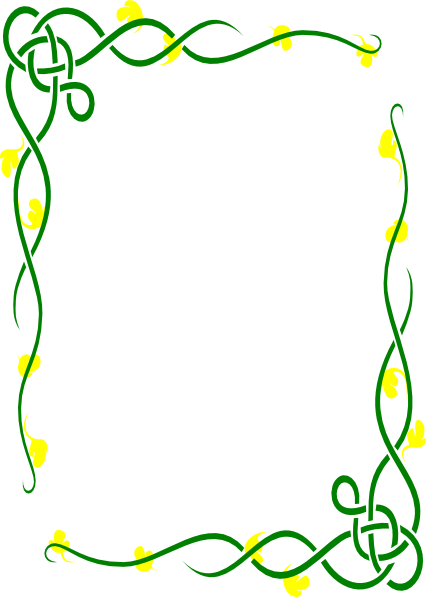
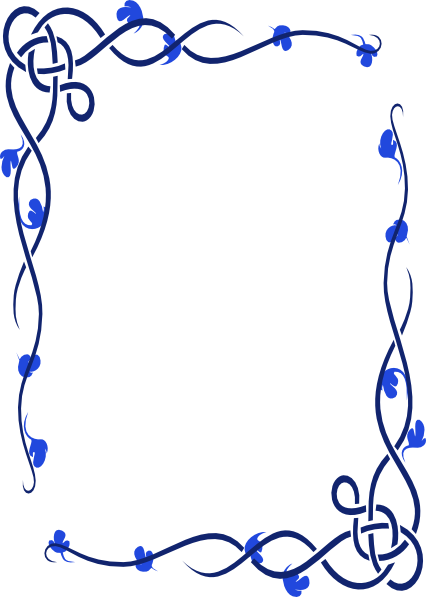
started template conversion

diff --git a/client/src/components/CustomNav/CustomNav.js b/client/src/components/CustomNav/CustomNav.js
@@ -14,7 +14,7 @@ class CustomNav extends Component {
             {/* Set to an image, but could be changed to text. Update alt and src to change picture */}
 
             <Navbar.Brand xs={4} sm={4} >
-              <Link to="/"><Image xs={4} lg={4} className="logo" alt="Green Table Farm Logo" src="http://res.cloudinary.com/aidanclemente/image/upload/c_scale,w_350/v1524004259/Green_Table_Logo.png" /></Link>
+              <Link to="/"><Image xs={4} lg={4} className="logo" alt="Computer Logo" src="assets/images/tech/compLogo.jpg" /></Link>
             </Navbar.Brand>
             <Navbar.Toggle />
           </Navbar.Header>
@@ -25,23 +25,23 @@ class CustomNav extends Component {
           <Navbar.Collapse>
             <Nav pullRight>
 
-              <NavItem className="text-center waves-effect waves-green waves-ripple" eventKey={1} componentClass={Link} href="/" to="/">
+              <NavItem className="text-center waves-effect waves-blue waves-ripple" eventKey={1} componentClass={Link} href="/" to="/">
                 Home
               </NavItem>
 
-              <NavItem className="text-center waves-effect waves-green waves-ripple" eventKey={2} componentClass={Link} href="/about" to="/about">
+              <NavItem className="text-center waves-effect waves-blue waves-ripple" eventKey={2} componentClass={Link} href="/about" to="/about">
                 About
               </NavItem>
             
-              <NavItem className="text-center waves-effect waves-green waves-ripple" eventKey={3} componentClass={Link} href="/cafe" to="/cafe">
-                Café
+              <NavItem className="text-center waves-effect waves-blue waves-ripple" eventKey={3} componentClass={Link} href="/hardware" to="/hardware">
+                Hardware
               </NavItem>
 
-              <NavItem className="text-center waves-effect waves-green waves-ripple" eventKey={4} componentClass={Link} href="/farmfresh" to="/farmfresh">
-                Farm Fresh
+              <NavItem className="text-center waves-effect waves-blue waves-ripple" eventKey={4} componentClass={Link} href="/software" to="/software">
+                Software
               </NavItem>
 
-              <NavItem className="text-center waves-effect waves-green waves-ripple" eventKey={5} componentClass={Link} href="/contact" to="/contact">
+              <NavItem className="text-center waves-effect waves-blue waves-ripple" eventKey={5} componentClass={Link} href="/contact" to="/contact">
                 Contact Us
               </NavItem>
             </Nav>

diff --git a/client/src/components/Home/Home.js b/client/src/components/Home/Home.js
@@ -15,7 +15,7 @@ class Home extends Component {
           {/* Update alt and src, carousel caption (optional) will overlay on top of the pictures */}
 
           {/* First Slide */}
-          <Image className="carouselPicture" alt="Kendra and Tyler" src="assets/images/portrait.jpg" />
+          <Image className="carouselPicture" alt="Image 1" src="assets/images/tech/wallpaper1.jpg" />
           {/* <Carousel.Caption>
             <h3>Welcome</h3>
             <p>Green Table Farm has much to offer, from hosting weddings, catering events, hosting campers, Farmer's Markets, and much more!</p>
@@ -24,7 +24,7 @@ class Home extends Component {
 
         {/* Second Slide */}
         <Carousel.Item>
-          <Image alt="Durango Farmers Market" src="assets/images/FarmersMarket.jpg" />
+          <Image alt="Demo2" src="assets/images/tech/wallpaper2.jpg" />
           {/* <Carousel.Caption>
             <h3>Come Visit at Durango Farmer's Market</h3>
             <p>Lorem ipsum dolor sit amet, consectetur adipiscing elit.</p>
@@ -33,7 +33,7 @@ class Home extends Component {
 
         {/* Third Slide */}
         <Carousel.Item>
-          <Image alt="Green Table Cafe Bus" src="assets/images/cafeBus.jpg" />
+          <Image alt="Demo3" src="assets/images/tech/wallpaper3.jpg" />
           {/* <Carousel.Caption>
             <h3>Green Table Cafe Bus</h3>
             <p>Visit "Cafe" to find out more about Green Table Cafe!</p>

diff --git a/client/src/components/Hardware/Hardware.js b/client/src/components/Hardware/Hardware.js
@@ -1,9 +1,9 @@
 import React, { Component } from 'react';
-import "./Cafe.css";
+import "./Hardware.css";
 import { Grid, Row, Thumbnail, Col, ListGroup } from 'react-bootstrap';
 import API from "../../utils/API";
 
-class Cafe extends Component {
+class Hardware extends Component {
   state = {
     cafes: [],
     photo: "",
@@ -27,8 +27,8 @@ class Cafe extends Component {
     return (
       <Grid className="content">
         <br />
-        <img className="coverPhoto text-center" src="/assets/images/coverPhoto.jpg" alt="Kendra and Fairlight at Cafe" />
-        <h1 className="customTitle text-center">Café Menu</h1>
+        <img className="coverPhoto text-center" src="/assets/images/tech/hardware.jpg" alt="hardware logo" />
+        <h1 className="customTitle text-center">Hardware Selection</h1>
         <Row>
           {this.state.cafes.length ? (
               <ListGroup>
@@ -53,4 +53,4 @@ class Cafe extends Component {
   }
 }
 
-export default Cafe;
+export default Hardware;

diff --git a/client/src/components/CustomNav/CustomNav.css b/client/src/components/CustomNav/CustomNav.css
@@ -1,11 +1,11 @@
 nav {
-    background-color:rgba(15, 58, 14) !important;
+    background-color:rgb(0, 17, 116)!important;
     border-radius: none !important;
 }
 
 .navbar-nav>li {
     padding-top: 0.5em;
-    background-color: rgb(15, 58, 14);
+    background-color: rgb(0, 17, 116);
     font-size: 1.7em;
 }
 
@@ -22,7 +22,7 @@ nav {
     font-size: .8em;
 }
 .navbar-nav>li>a:hover {
-    color: rgb(52, 150, 50) !important;
+    color: rgb(0, 164, 252) !important;
 }
 
 .navbar-default {
@@ -48,6 +48,7 @@ nav {
 
 .logo {
     width: 70%;
+    height: 3em;
 }
 .waves-effect {
     position: relative;
@@ -121,6 +122,10 @@ nav {
   
   .waves-effect.waves-teal .waves-ripple {
     background-color: rgba(0, 150, 136, 0.7);
+  }
+
+  .waves-effect.waves-blue .waves-ripple {
+    background-color: rgba(33, 165, 221, 0.7);
   }
 
 

diff --git a/client/src/App.js b/client/src/App.js
@@ -9,7 +9,7 @@ import AdminView from "./pages/AdminView";
 import NoMatch from "./pages/NoMatch";
 import Nav from "./components/CustomNav";
 import Footer from "./components/Footer";
-import Cafe from "./components/Cafe";
+import Hardware from "./components/Hardware";
 import Contact from "./components/Contact";
 import Modal from 'react-modal';
 
@@ -105,7 +105,7 @@ class App extends Component {
             <Switch>
               <Route exact path="/" component={ Home } />
               <Route  path="/about" component={ About } />
-              <Route path="/cafe" component={ Cafe } />
+              <Route path="/hardware" component={ Hardware } />
               <Route  path="/farmfresh" component={ FarmFresh } />
               <Route path="/adminview" render={props => (
                 this.state.logged_in 

diff --git a/client/src/pages/AdminView/AdminView.js b/client/src/pages/AdminView/AdminView.js
@@ -29,10 +29,10 @@ export default class AdminView extends Component {
     return (
       <div>
         <Button onClick={this.displayFarm} className="select" id="adminfarmbutton">
-          Farm
+          Software
         </Button>
         <Button onClick={this.displayCafe} className="select" id="admincafebutton">
-          Café
+          Hardware
         </Button>
         <Button onClick={this.displayLogin} className="select" id="adminloginbutton">
           Manage users

diff --git a/client/src/components/Footer/Footer.css b/client/src/components/Footer/Footer.css
@@ -29,7 +29,7 @@ small, .fa-coffee, .fa-heart {
     width: 100vw;
     /* --------------- */
     font-family: agilis;
-    background-color:rgba(15, 58, 14);
+    background-color:rgb(0, 17, 116);
     padding-top: 10px;
     color: white;
 }
@@ -40,7 +40,7 @@ small, .fa-coffee, .fa-heart {
 }
 
 .footer-copyright {
-    background-color:rgb(16, 44, 16);
+    background-color:rgb(1, 10, 65);
     padding: 15px 0;
     letter-spacing: 1px;
 }

diff --git a/client/public/assets/css/site.css b/client/public/assets/css/site.css
@@ -25,6 +25,13 @@ p {
     background-color: transparent;
     color: black !important;
 }
+#editButton {
+    display: none;
+}
+
+#submitButton {
+    display: inline;
+}
 
 /* ----------------------- All Thumbnail Cards ----------------------- */
 .thumbnail {
@@ -42,6 +49,11 @@ p {
 
 .customTitle {
     font-size: 2.75em;
+}
+
+#price {
+    color: darkblue;
+    font-weight: bold;
 }
 
 @media (max-width: 750px) {

diff --git a/server.js b/server.js
@@ -72,7 +72,7 @@ app.use(routes);
 app.use("/auth_routes", auth_routes);
 
 // Connect to the Mongo DB
-mongoose.connect(process.env.MONGODB_URI || "mongodb://localhost/farmfresh");
+mongoose.connect(process.env.MONGODB_URI || "mongodb://localhost/techcompany");
 mongoose.Promise = Promise;
 
 // Start the API server

diff --git a/scripts/seedDB.js b/scripts/seedDB.js
@@ -5,7 +5,7 @@ mongoose.Promise = global.Promise;
 // This file empties the FarmFresh collection and inserts the FarmFresh below
 
 mongoose.connect(
-  process.env.MONGODB_URI || "mongodb://localhost/farmfresh",
+  process.env.MONGODB_URI || "mongodb://localhost/techcompany",
   {
   }
 );

diff --git a/client/src/components/AdminViewCafe/AdminViewCafe.js b/client/src/components/AdminViewCafe/AdminViewCafe.js
@@ -75,7 +75,7 @@ export default class AdminViewCafe extends Component {
       });
       this.loadCafes();
     })
-    .catch(err => console.log(err)); 
+    .catch(err => console.log(err));
   }
 
   handleFormSubmit = event => {

diff --git a/client/public/index.html b/client/public/index.html
@@ -21,7 +21,7 @@
     <link rel="stylesheet" href="./assets/css/site.css">
 
 
-    <title>Green Table Farm</title>
+    <title>Generic Computer Company</title>
   </head>
   <body id="pageTop">
     <div id="fb-root"></div>
